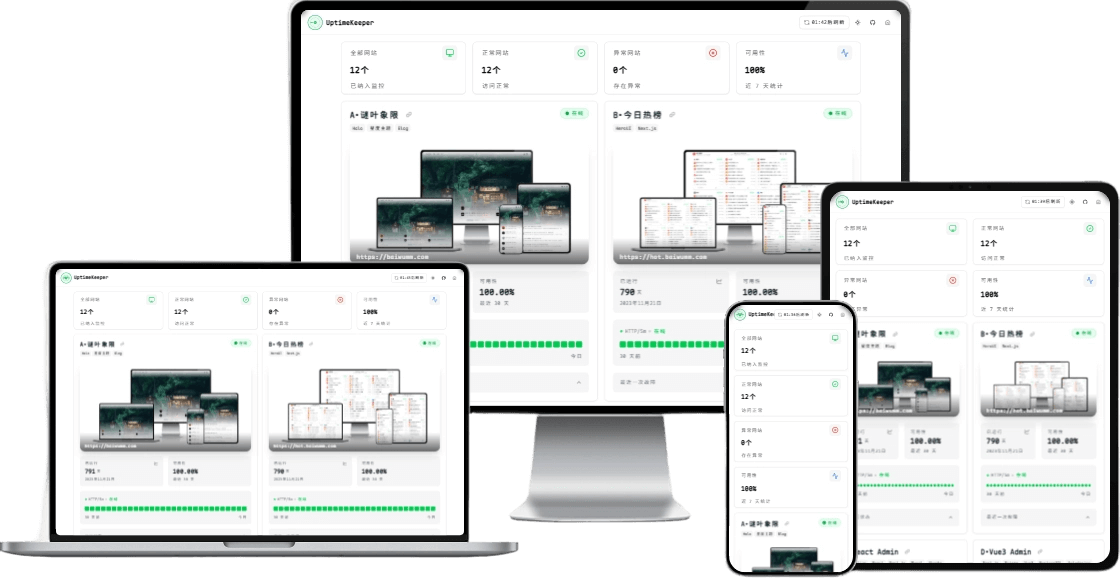
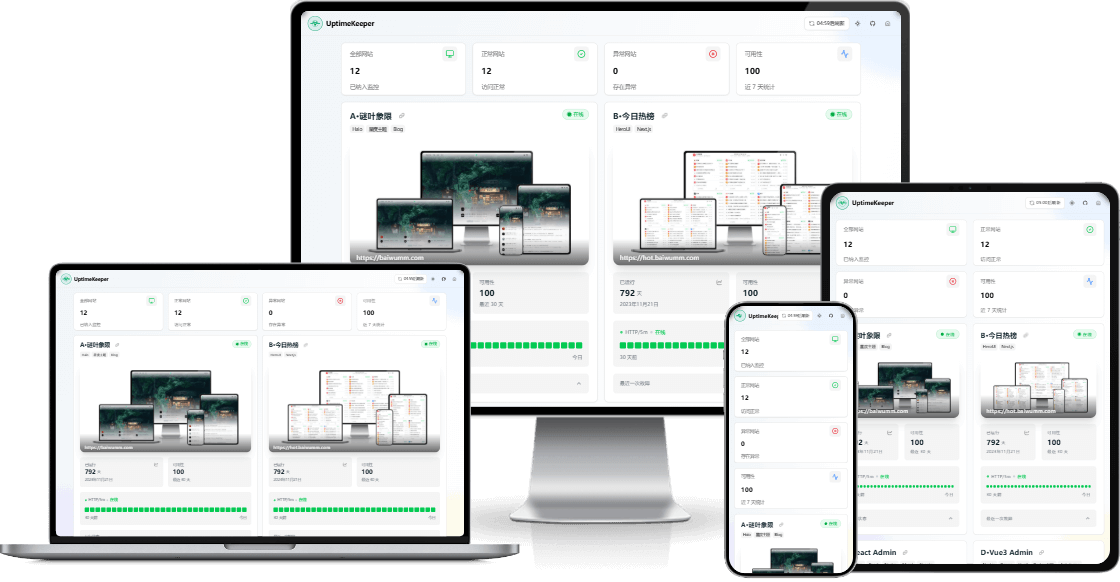
style: 背景色微调

diff --git a/src/app/layout.tsx b/src/app/layout.tsx
@@ -2,7 +2,7 @@
  * @Author: 白雾茫茫丶<baiwumm.com>
  * @Date: 2025-09-10 15:24:53
  * @LastEditors: 白雾茫茫丶<baiwumm.com>
- * @LastEditTime: 2026-01-12 10:42:24
+ * @LastEditTime: 2026-01-21 14:57:52
  * @Description: 布局文件
  */
 import { Analytics } from "@vercel/analytics/next"
@@ -64,7 +64,7 @@ export default function RootLayout({
         <meta name="apple-mobile-web-app-title" content="UptimeKeeper" />
         <link rel="stylesheet" href="https://cdn.baiwumm.com/fonts/MapleMono-CN-Regular/result.css" />
       </head>
-      <body className="bg-[radial-gradient(80%_50%_at_50%_0%,hsl(var(--primary)/0.08),transparent_70%)] dark:bg-[radial-gradient(80%_50%_at_50%_0%,hsl(var(--primary)/0.12),transparent_70%)]">
+      <body className="bg-gradient-to-br from-slate-100 via-white to-gray-100 dark:from-gray-900 dark:via-gray-800 dark:to-gray-900">
         {/* Vercel 统计 */}
         <Analytics />
         <ThemeProvider attribute="class" enableSystem={false}>
@@ -74,6 +74,10 @@ export default function RootLayout({
             <BackTop />
           </TooltipProvider>
         </ThemeProvider>
+        {/* 装饰光斑 */}
+        <div className="pointer-events-none fixed -top-40 -right-40 size-80 rounded-full bg-blue-200/30 dark:bg-blue-900/20 blur-lg -z-1" />
+        <div className="pointer-events-none fixed -bottom-20 -left-20 size-60 rounded-full bg-violet-200/30 dark:bg-violet-900/20 blur-lg -z-1" />
+        <div className="pointer-events-none fixed -bottom-25 -right-25 size-60 rounded-full bg-amber-100/30 dark:bg-amber-800/10 blur-lg -z-1" />
       </body>
     </html>
   );

diff --git a/src/app/globals.css b/src/app/globals.css
@@ -205,7 +205,4 @@ html {
   * {
     @apply border-border outline-ring/50;
   }
-  body {
-    @apply bg-background text-foreground;
-  }
 }
